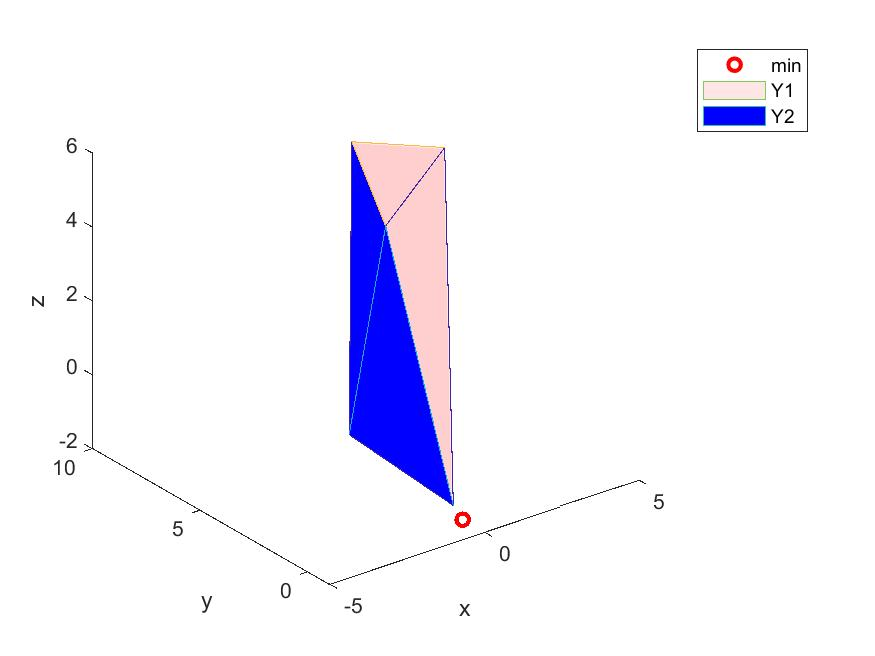
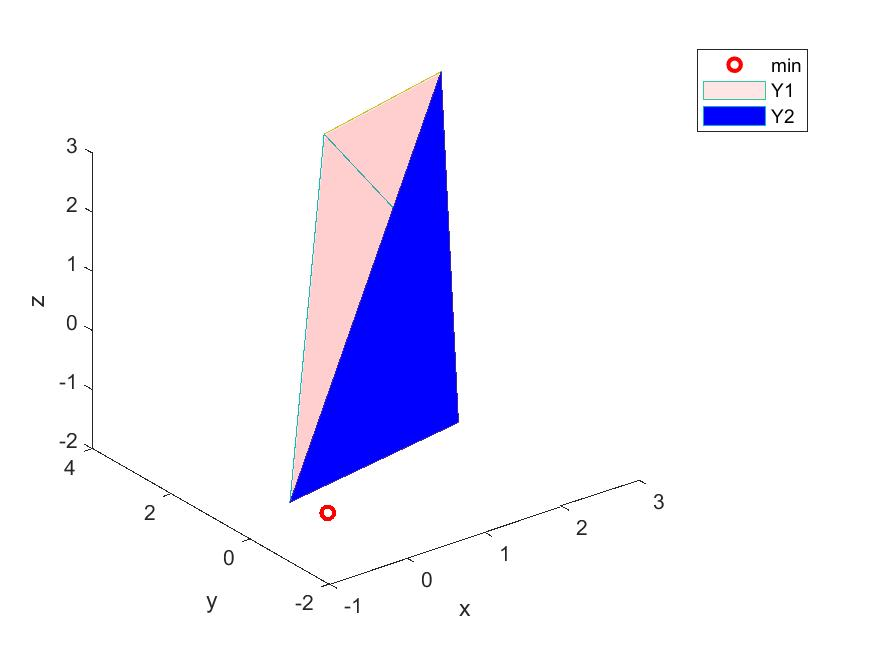
More

diff --git a/ToGetPicturesOfSimplexes.m b/ToGetPicturesOfSimplexes.m
@@ -60,6 +60,8 @@ set(h_current, 'Units','Inches');
 pos = get(h_current,'Position');
 set(h_current,'PaperPositionMode','Auto','PaperUnits','Inches','PaperSize',[pos(3),pos(4)]);
 print(h_current, strcat(destination,'niceFunctionSimplex',num2str(i), '-', num2str(i+1)),'-djpeg')
+simplexPlot.plot(YkTotal(:,:,i),YkTotal(:,:,i+1),i,destination);
+
 end
 
 
